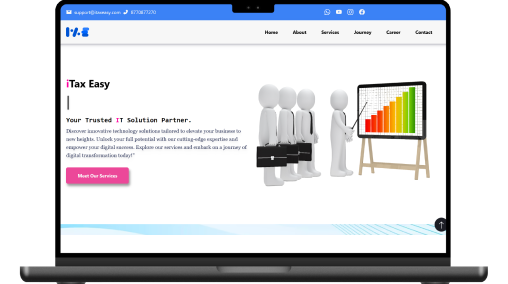
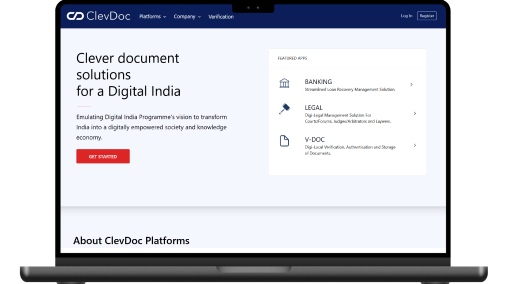
Projects section updated

diff --git a/src/Components/Elements/Projects.jsx b/src/Components/Elements/Projects.jsx
@@ -2,6 +2,8 @@ import React from 'react'
 import Project1 from '../images/Project_1.png'
 import Project2 from '../images/Project_2.png'
 import Project3 from '../images/Project_3.png'
+import Project4 from '../images/Project_4.png'
+import Project5 from '../images/Project_5.png'
 
 const Projects = () => {
   return (
@@ -48,7 +50,7 @@ const Projects = () => {
                   </span>
                   <img
                     className='max-w-[300px] mr-auto relative drop-shadow-[0_0px_60px_#0B1E59] dark:drop-shadow-[0_0px_40px_#fff]'
-                    src={Project2}
+                    src={Project1}
                     alt=''
                   />
                 </div>
@@ -70,6 +72,9 @@ const Projects = () => {
                   </li>
                   <li className='border rounded-[50px] border-[#999] px-[10px] py-[5px]'>
                     #tailwind css
+                  </li>
+                  <li className='border rounded-[50px] border-[#999] px-[10px] py-[5px]'>
+                    #context api
                   </li>
                   <li className='border rounded-[50px] border-[#999] px-[10px] py-[5px]'>
                     #node.js
@@ -98,6 +103,172 @@ const Projects = () => {
             {/* Project 2 */}
             <div className='flex flex-col sm:flex-row gap-4 md:mt-24 sm:gap-[80px] items-center mt-20 relative'>
               <div className='w-full'>
+                <h3 className='text-[#0B1E59] dark:text-gray-200 text-right font-bold md:text-[40px] text-[30px]'>
+                  Banking CMS
+                </h3>
+                <h2 className='text-[#0B1E59] dark:text-gray-200 text-lg text-right'>
+                  (Banking Content Management System)
+                </h2>
+                <p className='text-justify mt-2'>
+                Designed and developed a comprehensive <b>Banking CMS</b> to <b>streamline</b> data management for <b>loan recovery operations</b>. The <b>CMS</b> enhanced operational efficiency by providing a structured, intuitive interface for <b>ClevDoc to manage</b> bank and borrower information, <b>payment statuses</b>, loan management, <b>bank user management</b> and recovery workflows. Integrated secure access controls and real-time <b>Firebase notifications</b> for critical updates. Ensured data integrity and <b>smooth backend communication</b> through Redux Toolkit.
+                </p>
+
+                <ul className='flex flex-wrap gap-2 mt-2'>
+                  <li className='border rounded-[50px] border-[#999] px-[10px] py-[5px]'>
+                    #react.js
+                  </li>
+                  <li className='border rounded-[50px] border-[#999] px-[10px] py-[5px]'>
+                    #redux
+                  </li>
+                  <li className='border rounded-[50px] border-[#999] px-[10px] py-[5px]'>
+                    #tailwind css
+                  </li>
+                  <li className='border rounded-[50px] border-[#999] px-[10px] py-[5px]'>
+                    #node.js
+                  </li>
+                  <li className='border rounded-[50px] border-[#999] px-[10px] py-[5px]'>
+                    #swiper.js
+                  </li>
+                  <li className='border rounded-[50px] border-[#999] px-[10px] py-[5px]'>
+                    #mongoDB
+                  </li>
+                  <li className='border rounded-[50px] border-[#999] px-[10px] py-[5px]'>
+                    #mongoose
+                  </li>
+                  <li className='border rounded-[50px] border-[#999] px-[10px] py-[5px]'>
+                    #css
+                  </li>
+                  <li className='border rounded-[50px] border-[#999] px-[10px] py-[5px]'>
+                    #javascript
+                  </li>
+                  <li className='border rounded-[50px] border-[#999] px-[10px] py-[5px]'>
+                    #figma
+                  </li>
+                </ul>
+              </div>
+              <div className='h-[2px] left-1/2 right-[20%] bg-orgClr absolute top-1/2 hidden sm:block'></div>
+              <a
+                href='https://cms.clevdoc.com/'
+                target='_blank'
+                className='w-4 h-4 rounded-full hidden sm:block border-[3px] border-orgClr absolute left-1/2 -translate-x-1/2 bg-[#fff] z-10 hover:scale-125 ease-in-out duration-200'
+              ></a>
+              <a href='https://cms.clevdoc.com/' className='flex w-full justify-end mt-10'>
+                <div className='relative group hover:scale-105 ease-in-out duration-200 sm:hover:scale-105'>
+                  <span className="flex group-hover:-top-14 ease-jump duration-200 absolute top-0 left-1/2 -translate-x-1/2 bg-[#0B1E59] text-[#FFFFFF] w-max px-4 py-2 rounded gap-1 items-center after:content-[''] after:w-5 after:h-5 after:bg-inherit after:absolute after:left-1/2 after:-translate-x-1/2 after:rotate-45 after:-bottom-2">
+                    <p className='mr-2'>Banking</p> CMS
+                    <svg
+                      xmlns='http://www.w3.org/2000/svg'
+                      width='16'
+                      height='16'
+                      viewBox='0 0 24 24'
+                      fill='none'
+                      stroke='currentColor'
+                      stroke-width='2'
+                      stroke-linecap='round'
+                      stroke-linejoin='round'
+                      className='feather feather-external-link'
+                    >
+                      <path d='M18 13v6a2 2 0 0 1-2 2H5a2 2 0 0 1-2-2V8a2 2 0 0 1 2-2h6'></path>
+                      <polyline points='15 3 21 3 21 9'></polyline>
+                      <line x1='10' y1='14' x2='21' y2='3'></line>
+                    </svg>
+                  </span>
+                  <img
+                    className='max-w-[300px] mr-auto relative drop-shadow-[0_0px_60px_#0B1E59] dark:drop-shadow-[0_0px_40px_#fff]'
+                    src={Project2}
+                    alt=''
+                  />
+                </div>
+              </a>
+            </div>
+            {/* Project 3 */}
+            <div className='flex flex-col sm:flex-row gap-4 md:mt-24 mt-32 sm:gap-[80px] items-center relative'>
+              <div className='h-[2px] left-[20%] right-1/2 bg-orgClr absolute top-1/2 hidden sm:block'></div>
+              <a
+                href='https://www.kiwitech.com/'
+                target='_blank'
+                className='w-4 h-4 hidden sm:block rounded-full border-[3px] border-orgClr absolute left-1/2 -translate-x-1/2 bg-[#fff] z-10 hover:scale-125 ease-in-out duration-200'
+              ></a>
+              <a
+                href='https://www.kiwitech.com/'
+                target='_blank'
+                className='flex w-full mb-5'
+              >
+                <div className='relative group hover:scale-105 ease-in-out duration-200 sm:hover:scale-105'>
+                  <span className="flex group-hover:-top-14 ease-jump duration-200 absolute top-0 left-1/2 -translate-x-1/2 bg-[#6ddb54] text-gray-900 w-max px-4 py-2 rounded gap-1 items-center after:content-[''] after:w-5 after:h-5 after:bg-inherit after:absolute after:left-1/2 after:-translate-x-1/2 after:rotate-45 after:-bottom-2">
+                    Voice Kit
+                    <svg
+                      xmlns='http://www.w3.org/2000/svg'
+                      width='16'
+                      height='16'
+                      viewBox='0 0 24 24'
+                      fill='none'
+                      stroke='currentColor'
+                      stroke-width='2'
+                      stroke-linecap='round'
+                      stroke-linejoin='round'
+                      className='feather feather-external-link'
+                    >
+                      <path d='M18 13v6a2 2 0 0 1-2 2H5a2 2 0 0 1-2-2V8a2 2 0 0 1 2-2h6'></path>
+                      <polyline points='15 3 21 3 21 9'></polyline>
+                      <line x1='10' y1='14' x2='21' y2='3'></line>
+                    </svg>
+                  </span>
+                  <img
+                    className='max-w-[300px] mr-auto relative drop-shadow-[0_0px_60px_#6ddb54]'
+                    src={Project3}
+                    alt=''
+                  />
+                </div>
+              </a>
+              <div className='w-full'>
+                <h3 className='text-[#6ddb54] text-left font-bold md:text-[40px] text-[30px]'>
+                  Voice Kit
+                </h3>
+                <h2 className='text-[#45a42f] text-left text-lg'>
+                  (Voice Emotion Analyzer)
+                </h2>
+                <p className='text-justify mt-2'>
+                VoiceKit is an <b>ML-powered tool</b> that analyzes emotions in recorded <b>audio conversations</b> to help businesses <b>evaluate client interactions</b>. It features emotion detection, <b>visual insights</b> via bar and donut charts, and <b>PDF reporting</b> for stakeholders. The platform empowers organizations to improve communication strategies, <b>boost client engagement</b>, and drive informed decisions.
+                </p>
+
+                <ul className='flex flex-wrap gap-2 mt-2'>
+                  <li className='border rounded-[50px] border-[#999] px-[10px] py-[5px]'>
+                    #react.js
+                  </li>
+                  <li className='border rounded-[50px] border-[#999] px-[10px] py-[5px]'>
+                    #redux
+                  </li>
+                  <li className='border rounded-[50px] border-[#999] px-[10px] py-[5px]'>
+                    #tailwind css
+                  </li>
+                  <li className='border rounded-[50px] border-[#999] px-[10px] py-[5px]'>
+                    #python api
+                  </li>
+                  <li className='border rounded-[50px] border-[#999] px-[10px] py-[5px]'>
+                    #chart.js
+                  </li>
+                  <li className='border rounded-[50px] border-[#999] px-[10px] py-[5px]'>
+                    #mongoDB
+                  </li>
+                  <li className='border rounded-[50px] border-[#999] px-[10px] py-[5px]'>
+                    #mongoose
+                  </li>
+                  <li className='border rounded-[50px] border-[#999] px-[10px] py-[5px]'>
+                    #css
+                  </li>
+                  <li className='border rounded-[50px] border-[#999] px-[10px] py-[5px]'>
+                    #javascript
+                  </li>
+                  <li className='border rounded-[50px] border-[#999] px-[10px] py-[5px]'>
+                    #figma
+                  </li>
+                </ul>
+              </div>
+            </div>
+            {/* Project 4 */}
+            <div className='flex flex-col sm:flex-row gap-4 md:mt-24 sm:gap-[80px] items-center mt-20 relative'>
+              <div className='w-full'>
                 <h3 className='text-[rgba(16,16,16,1)] dark:text-[#5cf81e] text-right font-bold md:text-[40px] text-[30px]'>
                   HitWeb
                 </h3>
@@ -105,10 +276,10 @@ const Projects = () => {
                   (IT Consultancy and Services Startup)
                 </h2>
                 <p className='text-justify mt-2'>
-                  Being a lead developer, revamped the site to a highly
-                  responsive, and interactive website. Created new features and
-                  pages. Worked as a team with other team member and ux
-                  designer.
+                  Being a <b>lead developer</b>, revamped the site to a <b>highly
+                  responsive</b>, and interactive website. Created new features and
+                  pages. Worked as a team with other team member and <b>ux
+                  designer</b>.
                 </p>
 
                 <ul className='flex flex-wrap gap-2 mt-2'>
@@ -170,13 +341,13 @@ const Projects = () => {
                   </span>
                   <img
                     className='max-w-[300px] mr-auto relative drop-shadow-[0_0px_60px_rgba(16,16,16,1)] dark:drop-shadow-[0_0px_40px_#96f96f]'
-                    src={Project3}
+                    src={Project4}
                     alt=''
                   />
                 </div>
               </a>
             </div>
-            {/* Project 3 */}
+            {/* Project 5 */}
             <div className='flex flex-col sm:flex-row gap-4 md:mt-24 mt-32 sm:gap-[80px] items-center relative'>
               <div className='h-[2px] left-[20%] right-1/2 bg-orgClr absolute top-1/2 hidden sm:block'></div>
               <a
@@ -211,7 +382,7 @@ const Projects = () => {
                   </span>
                   <img
                     className='max-w-[300px] mr-auto relative drop-shadow-[0_0px_60px_#3b82f6]'
-                    src={Project1}
+                    src={Project5}
                     alt=''
                   />
                 </div>
@@ -224,8 +395,8 @@ const Projects = () => {
                   (Software Development Agency)
                 </h2>
                 <p className='text-justify mt-2'>
-                  Developed a full-fledged software development platform
-                  focusing on user needs and efficiency. Built the complete site
+                  Developed a <b>full-fledged software development</b> platform
+                  focusing on <b>user needs and efficiency</b>. Built the complete site
                   from scratch.
                 </p>
 
@@ -238,9 +409,6 @@ const Projects = () => {
                   </li>
                   <li className='border rounded-[50px] border-[#999] px-[10px] py-[5px]'>
                     #node.js
-                  </li>
-                  <li className='border rounded-[50px] border-[#999] px-[10px] py-[5px]'>
-                    #swiper.js
                   </li>
                   <li className='border rounded-[50px] border-[#999] px-[10px] py-[5px]'>
                     #mongoDB

diff --git a/src/Components/Elements/Navbar.jsx b/src/Components/Elements/Navbar.jsx
@@ -2,10 +2,8 @@ import React, { useEffect, useState } from "react";
 import img from "../images/LOGO.png";
 import Description from "./Description";
 import About from "./About";
-import Services from "./Services";
-import Projects from "./Projects";
-import Testimonials from "./Testimonials";
 import Contact from "./Contact";
+import Projects from "./Projects";
 import Footer from "./Footer";
 import Experience from "./Experience";
 import DSASection from "./DSASection";
@@ -47,6 +45,7 @@ const Navbar = () => {
 
   const renderNavLink = (id) => (
     <a
+      key={id}
       href={`#${id}`}
       onClick={() => {
         setActiveId(id);
@@ -73,7 +72,7 @@ const Navbar = () => {
 
           {/* Desktop Menu */}
           <div className="hidden md:flex items-center space-x-10">
-            {sections.map((id) => renderNavLink(id))}
+            {sections.map((id, index) => renderNavLink(id))}
             <button
               onClick={() => setIsDark(!isDark)}
               className="top-7 right-8 p-2 rounded-full hover:scale-125 text-orgClr transition"
@@ -117,7 +116,10 @@ const Navbar = () => {
         )}
       </nav>
 
-      <div id="home" className="md:pt-[120px] pt-[80px] bg-slate-50 dark:bg-gray-900">
+      <div
+        id="home"
+        className="md:pt-[120px] pt-[80px] bg-slate-50 dark:bg-gray-900"
+      >
         <div className="container px-5 md:px-14 mx-auto">
           <Description />
         </div>
